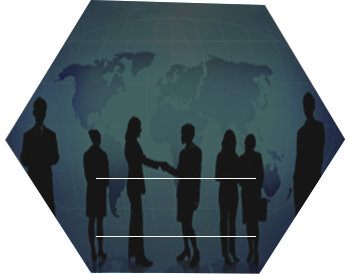
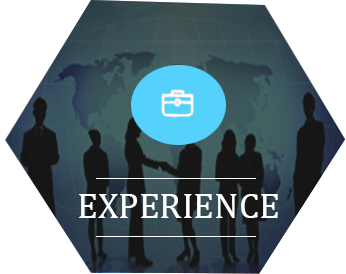
modified home.html and Images files

Changed region(s): [[0.3757, 0.2336, 0.6647, 0.5547], [0.2312, 0.7007, 0.8092, 0.8175]]

diff --git a/home.html b/home.html
@@ -26,26 +26,50 @@ body{
 }
 
 .text{
-	margin-top:20px;
+	position: absolute; 
+	margin-top:220px;
 	color:white;
 	font-size:30px;
 	font-family:Cambria;
-	margin-left:700px;
+	margin-left:750px;
 }
 .text1{
-	
+    position: absolute; 
+	width:100%;
 	color:white;
 	font-size:30px;
 	font-family:Cambria;
-	margin-left:700px;
+	margin-top:530px;
+	margin-left:0px;
 }
 .icon1{
 	 position: absolute;
     margin-top:140px;
 	margin-left:800px;
 }
-a:hover { 
-	opacity:0.5;
+.x:hover { 
+	-webkit-transform: scale(1.0);
+        -ms-transform: scale(1.0);
+        transform: scale(1.03);
+		opacity:0.7;
+	}
+.f:hover { 
+	-webkit-transform: scale(1.0);
+        -ms-transform: scale(1.0);
+        transform: scale(1.03);
+		opacity:0.7;
+	}
+.z:hover { 
+	-webkit-transform: scale(1.0);
+        -ms-transform: scale(1.0);
+        transform: scale(1.03);
+		opacity:0.7;
+	}
+.g:hover { 
+	-webkit-transform: scale(1.0);
+        -ms-transform: scale(1.0);
+        transform: scale(1.03);
+		opacity:0.7;
 	}
 b{
   margin-top:100px;
@@ -58,33 +82,31 @@ b{
 .x{
 	position: relative;
 	 margin-top:24px;
-     margin-left:660px;
+     margin-left:650px;
+	 
 }
 .z{
 	position: absolute  ;
 	 margin-top:27.5px;
-     margin-left:3px;
+     margin-left:11px;
 }
 .f{
 	position: relative;
 	 margin-top:0px;
-    margin-left:670px;
+    margin-left:660px;
 }
 .g{
 	position: absolute  ;
 	 margin-top:0px;
-      margin-left:3px;
+      margin-left:9px;
 }
 </style>
 </head>
 <body>
 <div class="One">
 <pre > <a><img class="x" src = "Images/profile.png"></a><a><img class="z" src = "Images/skills.png"></a></pre> 
-<pre > <a><img class="f" src = "Images/experience.png"></a><a><img class="g" src = "Images/contacticon.png"></a></pre>                                       
-<pre class="icon"><a><img class="e" src = "Images/profileicon.png"></a> <a><img class="d"src = "Images/skillsicon.png"></a></pre>
-<pre class="text">	      PROFILE			                    <b>SKILLS<b></pre>
-<pre class="icon1"><a><img src = "Images/experienceicon.png"></a>                                 <a><img src = "Images/contacticon.png"></a></pre>
-<pre class="text1">	    EPERIENCE			         CONTACT</pre>
+<pre > <a><img class="f" src = "Images/experience.png"></a><a><img class="g" src = "Images/contact.png"></a></pre>                                       
+
 </div>
 </body>
 </html>
